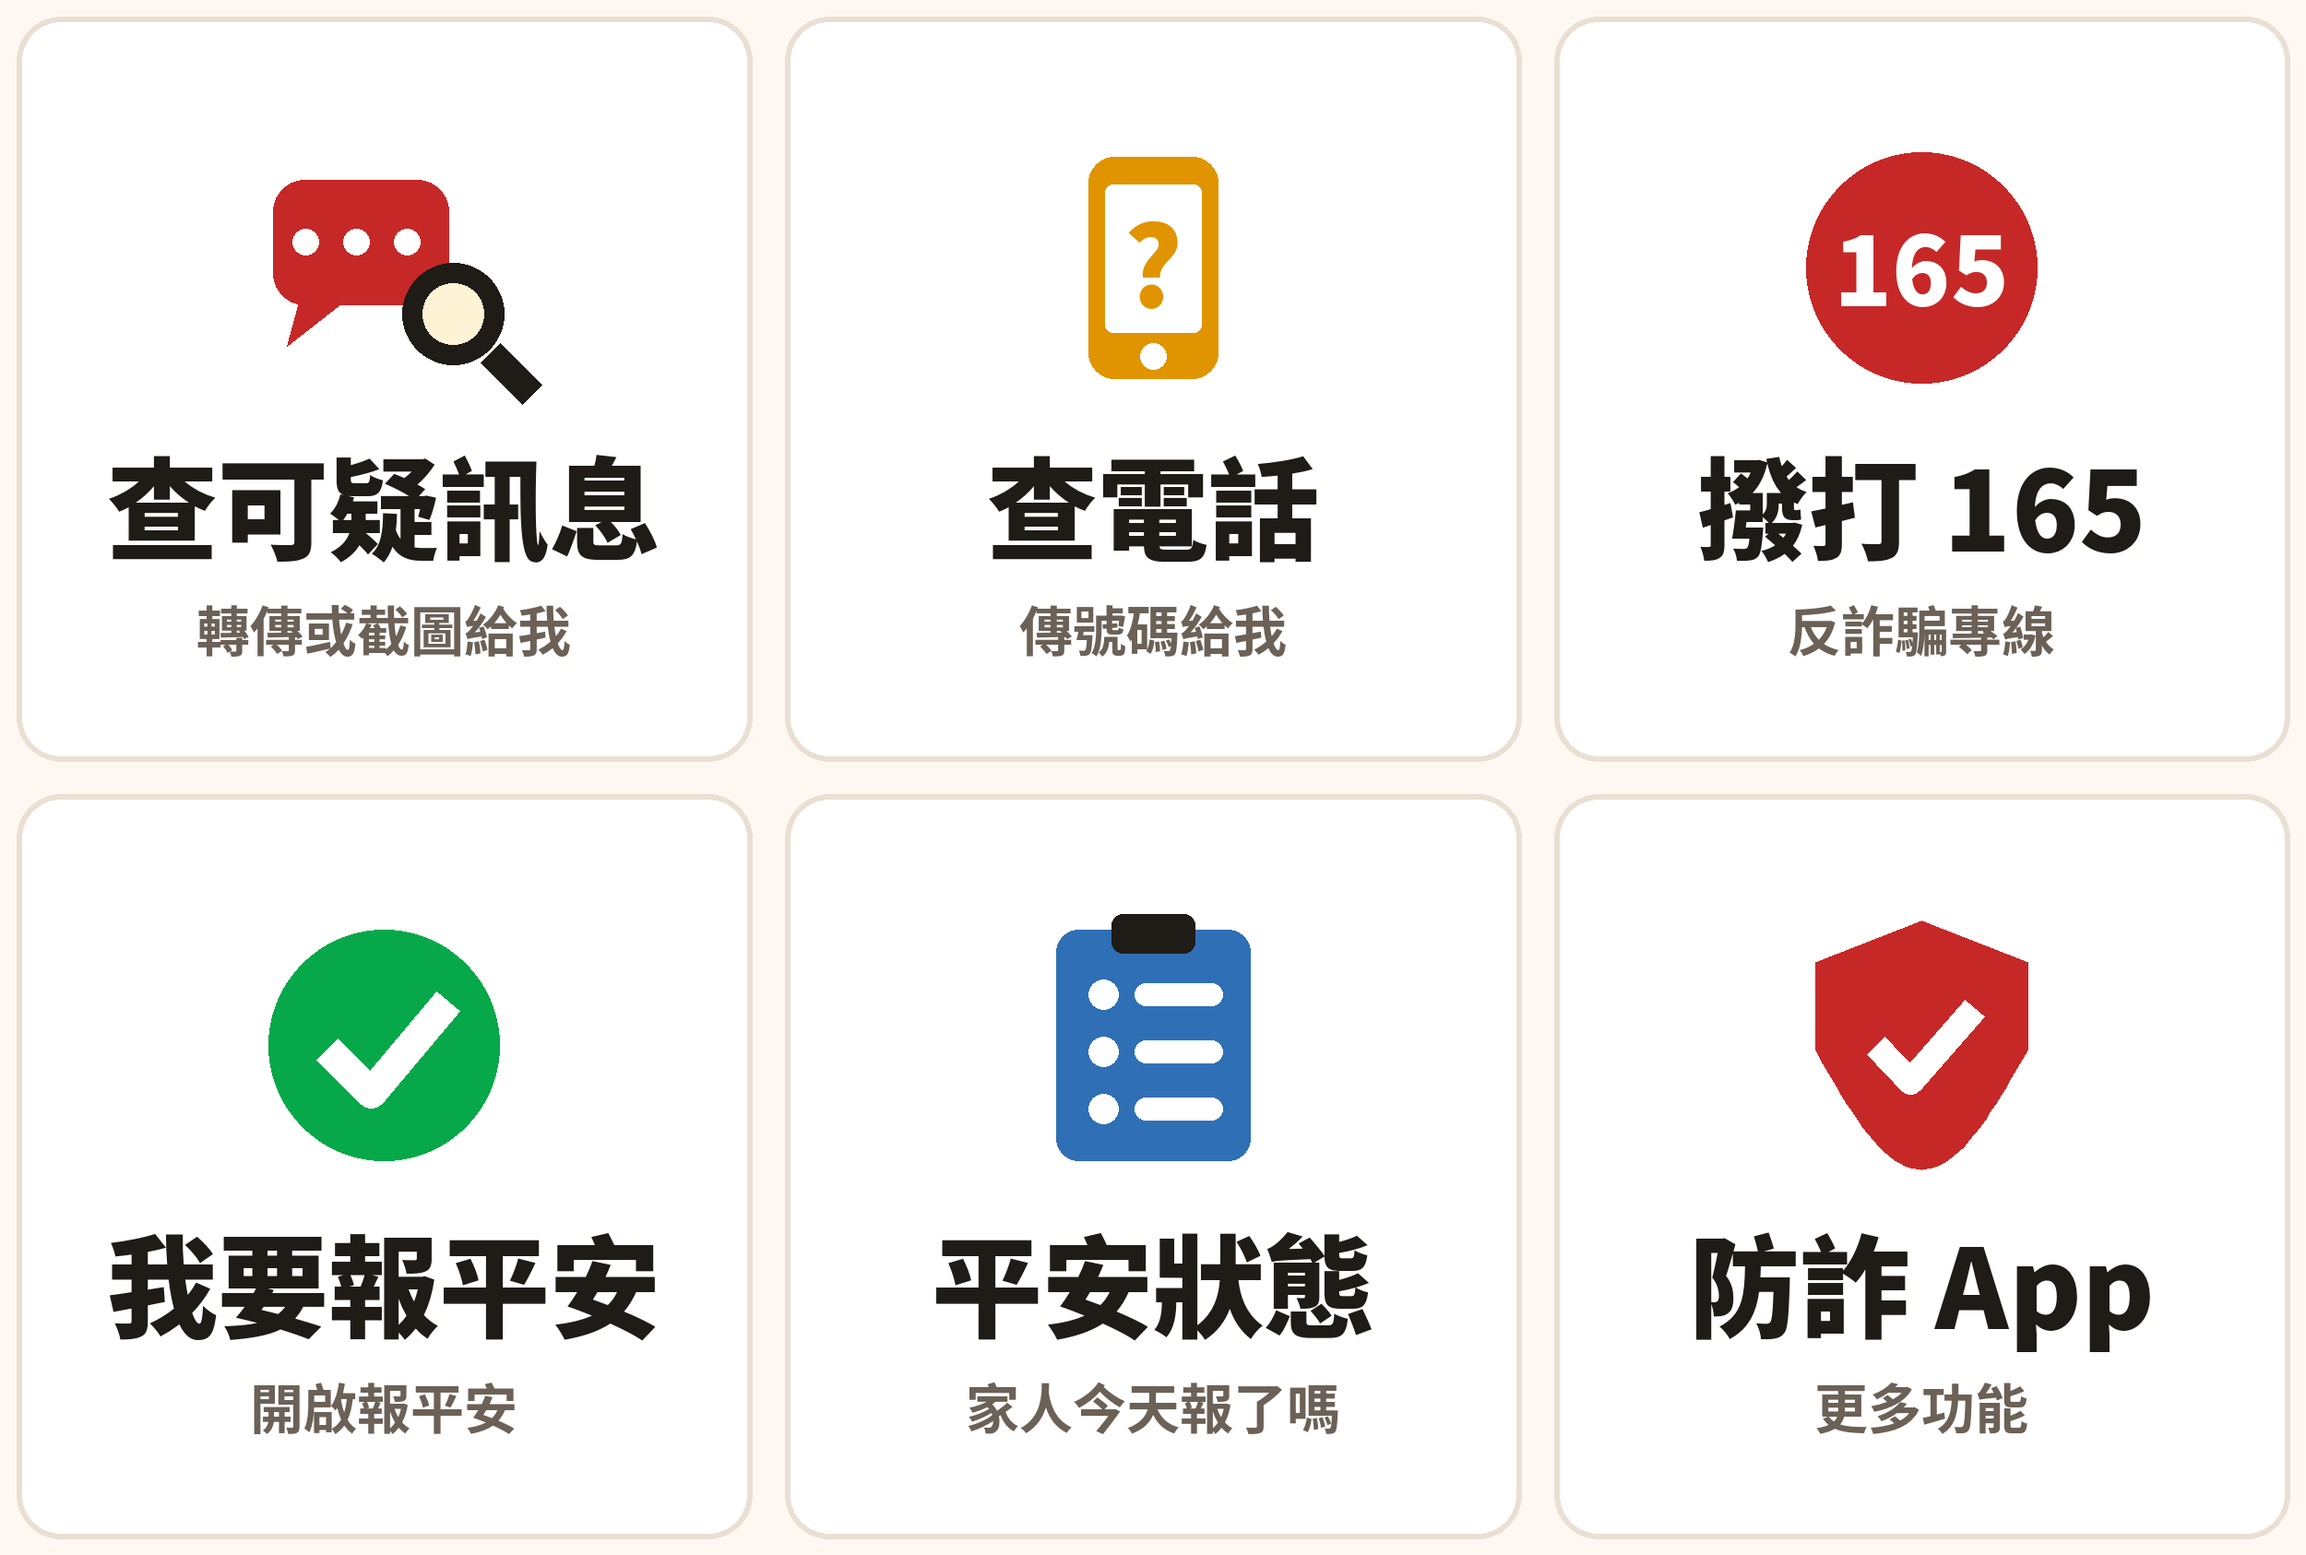
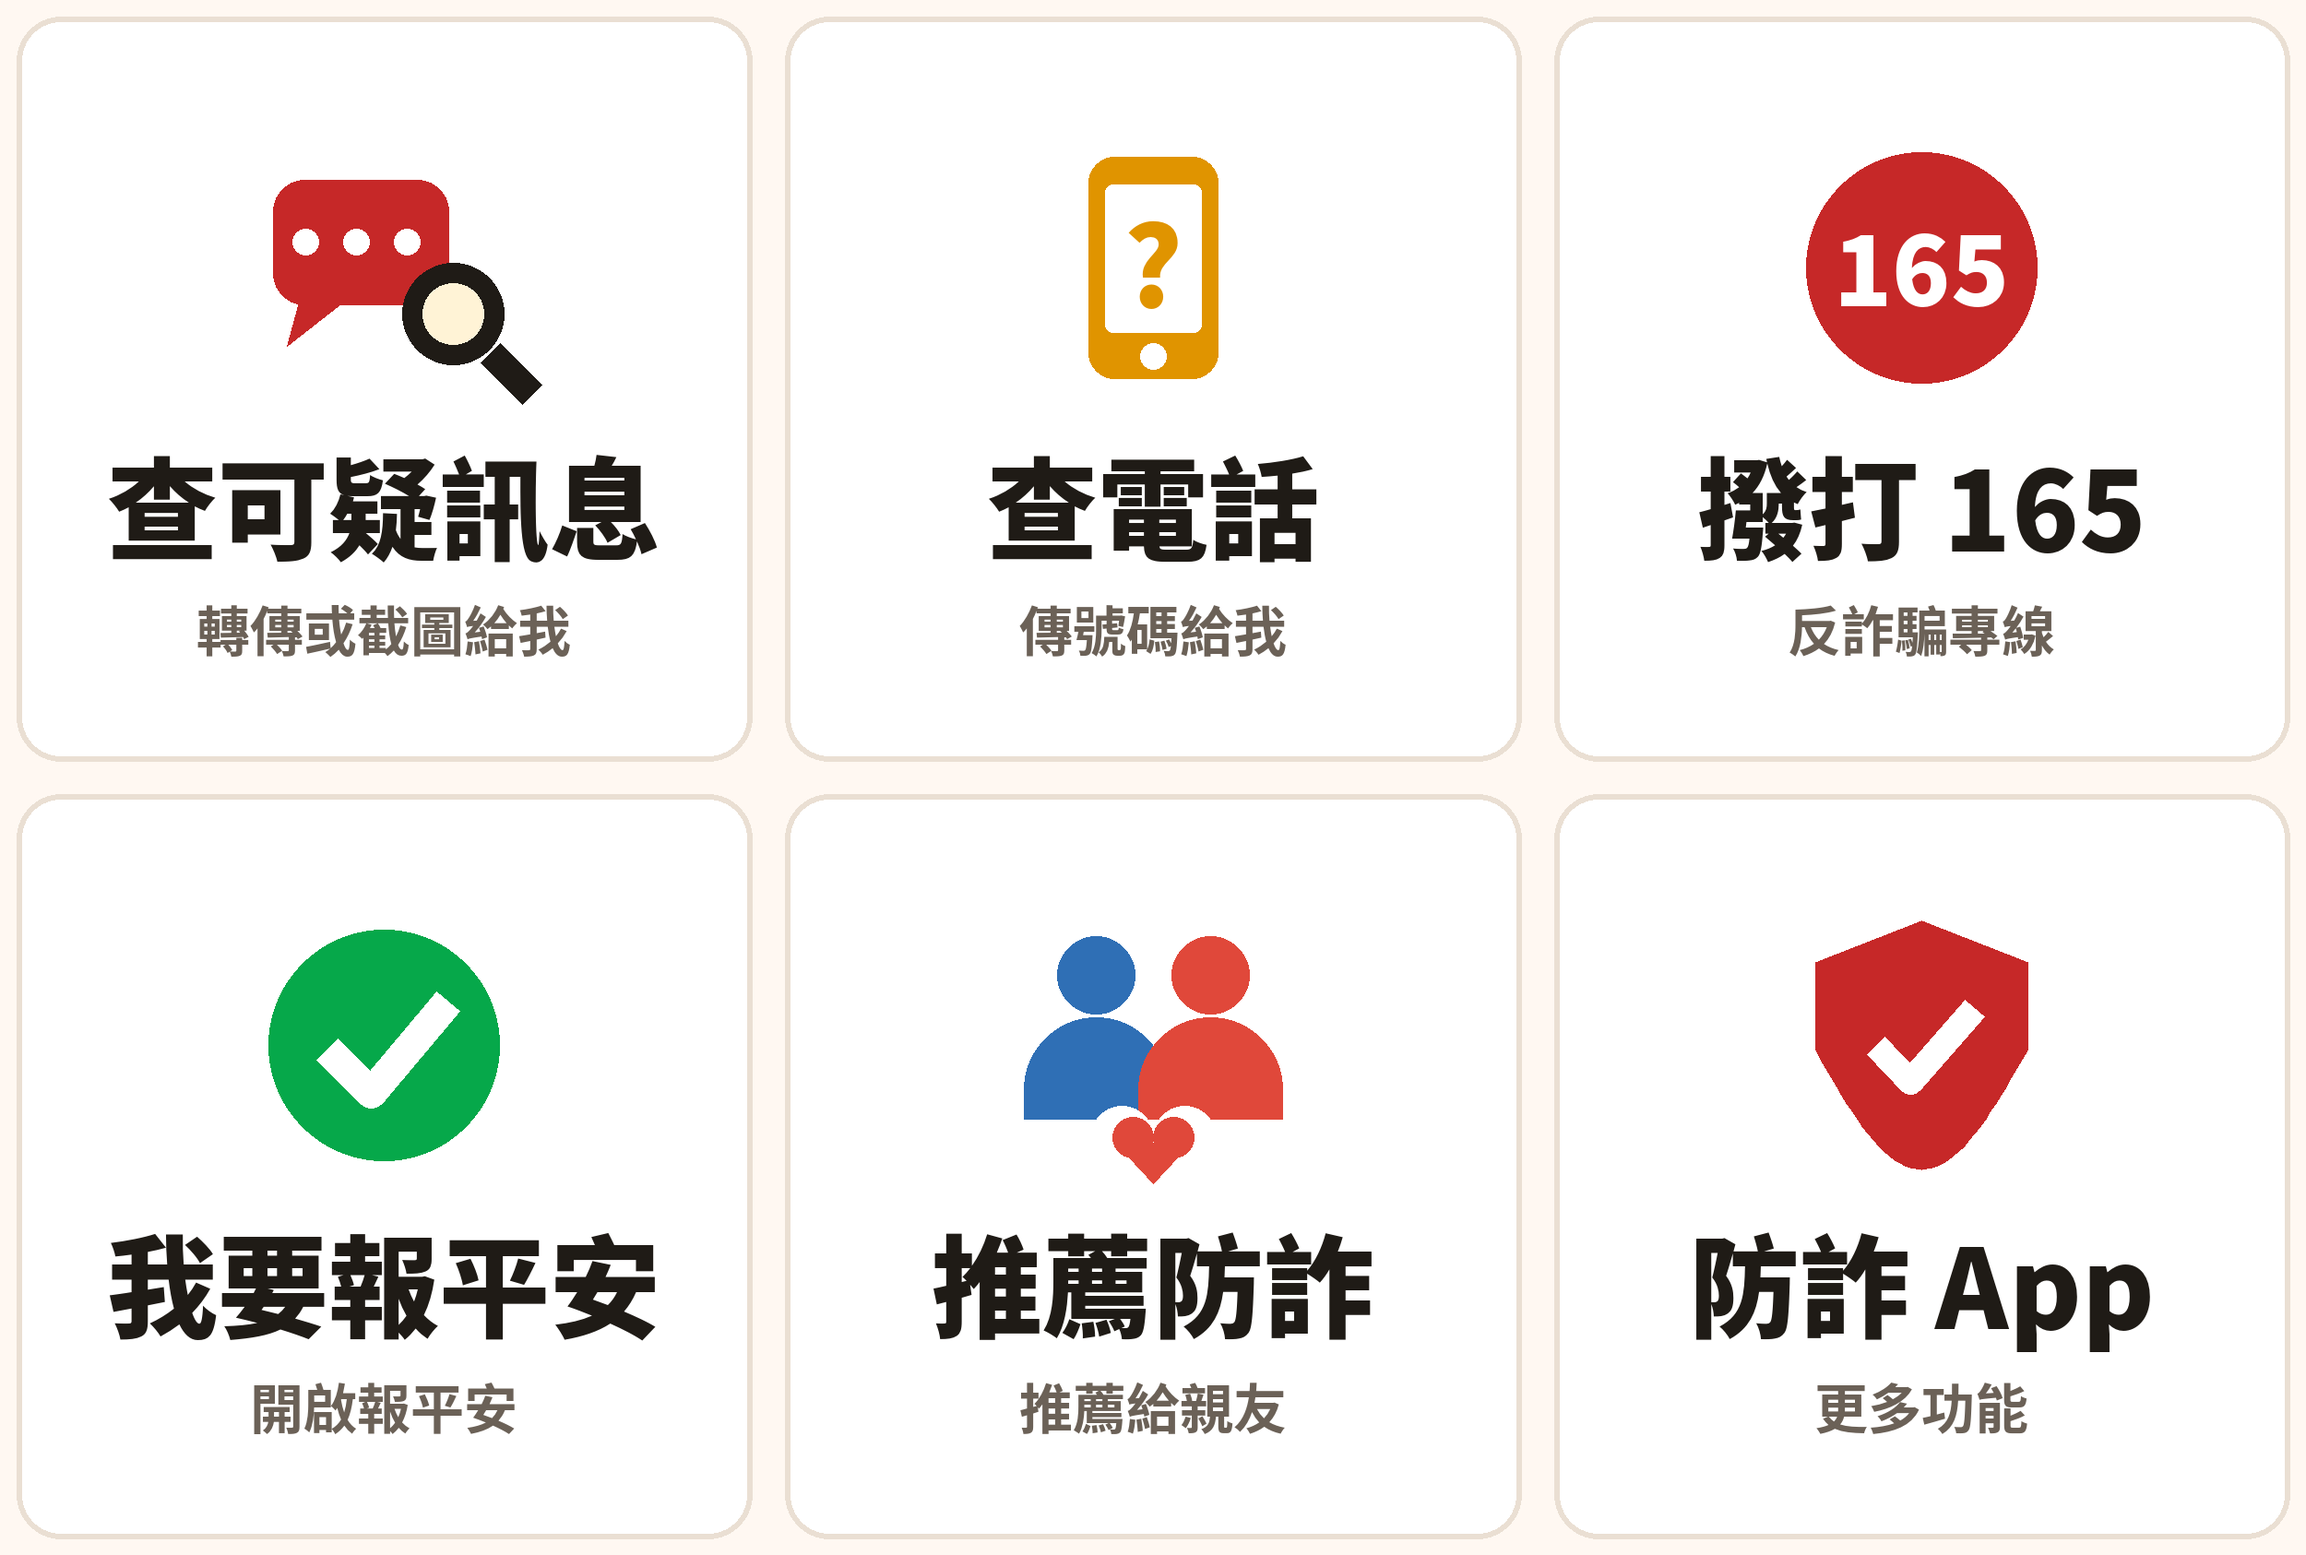
圖文選單：平安狀態改為「推薦防詐」（推薦官方帳號給親友）
Claude-Session: https://claude.ai/code/session_01KkNRidRQYnJRH3MYjhKWcC

Changed region(s): [[0.4056, 0.586, 0.5928, 0.8636], [0.4056, 0.8944, 0.5928, 0.9253]]

diff --git a/line/make-richmenu.py b/line/make-richmenu.py
@@ -32,6 +32,18 @@ def status(cx, cy, c):
         y = cy-55+k*62
         d.ellipse([cx-70, y-16, cx-38, y+16], fill='white')
         d.rounded_rectangle([cx-20, y-12, cx+75, y+12], radius=12, fill='white')
+def share(cx, cy, c):
+    # 兩個人＋愛心：推薦給親友
+    for dx, col in [(-62, c), (62, '#E0483A')]:
+        d.ellipse([cx+dx-42, cy-118, cx+dx+42, cy-34], fill=col)
+        d.pieslice([cx+dx-78, cy-30, cx+dx+78, cy+126], 180, 360, fill=col)
+        d.rectangle([cx+dx-78, cy+47, cx+dx+78, cy+80], fill=col)
+    hx, hy, r = cx, cy+100, 34
+    d.ellipse([hx-2*r, hy-r, hx, hy+r], fill='#FFFFFF'); d.ellipse([hx, hy-r, hx+2*r, hy+r], fill='#FFFFFF')
+    d.polygon([(hx-2*r+4, hy+10), (hx+2*r-4, hy+10), (hx, hy+2.2*r)], fill='#FFFFFF')
+    r -= 12
+    d.ellipse([hx-2*r, hy-r, hx, hy+r], fill='#E0483A'); d.ellipse([hx, hy-r, hx+2*r, hy+r], fill='#E0483A')
+    d.polygon([(hx-2*r+3, hy+6), (hx+2*r-3, hy+6), (hx, hy+2.3*r)], fill='#E0483A')
 def shield(cx, cy, c):
     pts = [(cx, cy-135), (cx+115, cy-90), (cx+115, cy+5)]
     for k in range(0, 101, 5):
@@ -46,7 +58,7 @@ cells = [
     (phone,     AMBER, '查電話',     '傳號碼給我'),
     (call165,   RED,   '撥打 165',   '反詐騙專線'),
     (wave,      GREEN, '我要報平安', '開啟報平安'),
-    (status,    BLUE,  '平安狀態',   '家人今天報了嗎'),
+    (share,     BLUE,  '推薦防詐',   '推薦給親友'),
     (shield,    RED,   '防詐 App',   '更多功能'),
 ]
 CW, RH = W / COLS, H / ROWS

diff --git a/line/README.md b/line/README.md
@@ -5,7 +5,7 @@
 ## 長輩怎麼用
 - **查可疑訊息**：長按簡訊或 LINE 訊息 →「轉傳」給報平安，或直接傳截圖 → 回覆紅／黃／綠判斷卡片（撥打 165、轉給家人看）
 - **查電話**：傳電話號碼 → 先判斷號碼（+886、國外來電）→ 點「對方說了什麼」快選 → AI 綜合判斷
-- 指令：`查訊息`、`查電話`、`防詐小知識`；原有的 `平安 123456`、`取消平安 123456`、`平安狀態` 照舊
+- 指令：`查訊息`、`查電話`、`防詐小知識`；原有的 `平安 123456`、`取消平安 123456`、`平安狀態` 照舊（平安狀態改用打字查詢）
 
 ## 規則
 - 全部用 reply 回覆，不吃每月推播額度
@@ -15,7 +15,7 @@
 
 ## 圖文選單（2 列 × 3 格）
 查可疑訊息｜查電話｜撥打 165
-我要報平安（開 safe App）｜平安狀態｜防詐 App
+我要報平安（開 safe App）｜推薦防詐（推薦官方帳號給親友）｜防詐 App
 
 ```
 cd line
